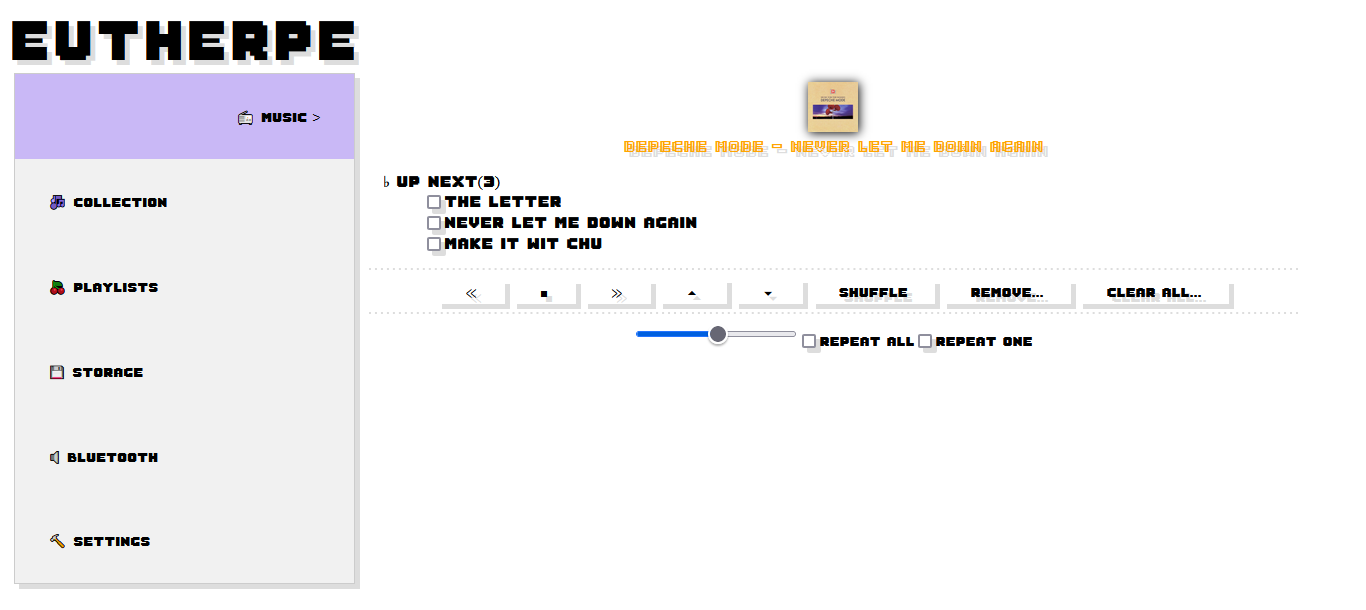
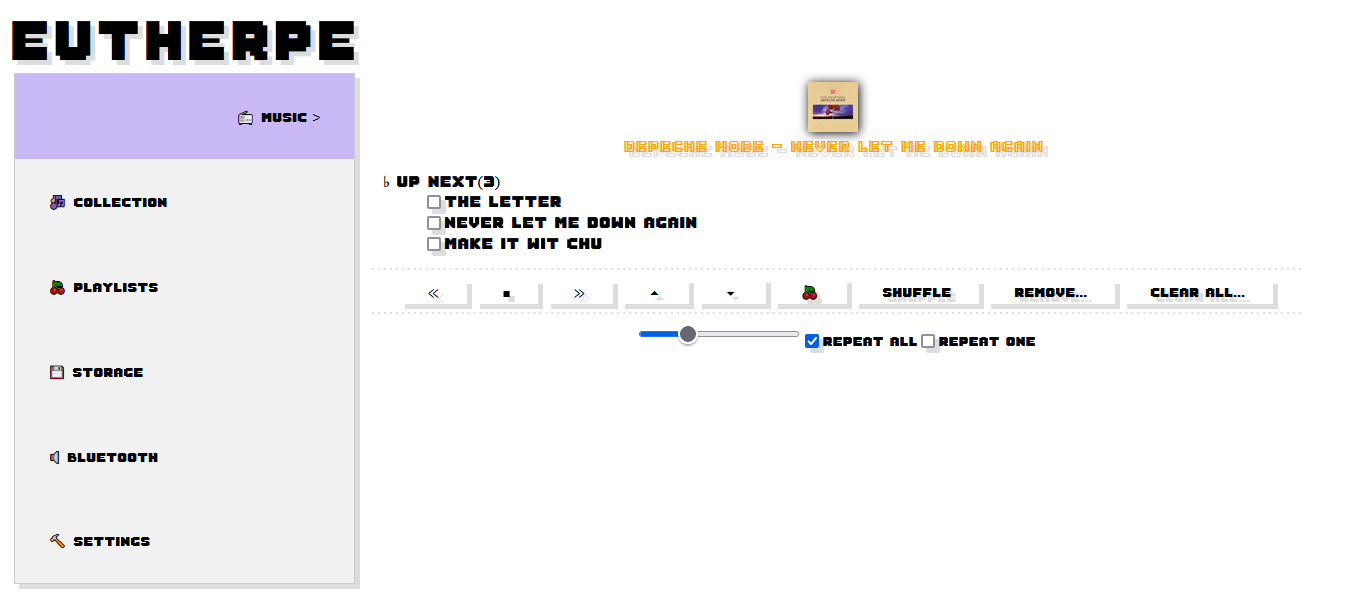
Update user's manual

Changed region(s): [[0.3382, 0.4672, 0.9531, 0.5918], [0.2767, 0.4984, 0.3382, 0.5295]]

diff --git a/doc/MANUAL-PT.md b/doc/MANUAL-PT.md
@@ -86,8 +86,8 @@ As principais características de `Eutherpe` são:
 ### Ãhm?!
 
 > [!IMPORTANT]
-> Se você não é do bonde dos malucos (leia-se gente que programa computadores), talvez seja legal
-> entender o que cargas d'água significa `bootstrapping`.
+> Se você não é da guange voadora dos malucos (leia-se gente que programa computadores), talvez
+> seja legal entender o que cargas d'água significa `bootstrapping`.
 
 Bem, isso é um termo que utilizamos para indicar que vamos provisionar todo o necessário para
 começar de fato a brincadeira. Seria um escalar sem corda colocando os grampos, para que
@@ -120,7 +120,7 @@ desperdício pode impactar na audição das suas amadas músicas.
 
 O `Debian 12` foi o meu sistema de escolha para desenvolver `Eutherpe`, tentei o `12` completo mas
 ficou bem ruim e estava utilizando um sistema com `Gnome` e todas aquelas tranqueiras *- que para o
-objetivo do `Eutherpe` são essencialmente inúteis*.
+objetivo de `Eutherpe` são essencialmente inúteis*.
 
 Você deve estar pensando: *"- Poxa fazer esse tal 'boostrapping' deve ser difícil bagarai..."*.
 Relaxa, não é!
@@ -258,7 +258,7 @@ o que quero tocar?*
 
 Nessa tela você tem todo acesso às músicas que `Eutherpe` conseguiu escanear de seu dispositivo
 de armazenamento. Entenda essa tela como a sua *estante*, onde todos seus álbuns seguem organizados.
-Note, organizados. E isso mesmo se você for uma criatura desorganizada! :wink:
+Note: organizados. E isso mesmo se você for uma criatura desorganizada! :wink:
 
 Dá uma conferida na **Figura 4** no `layout` dessa tela. Note que aqui eu também lancei mão daquela
 convenção pirada *sustenido/bemol*...
@@ -288,6 +288,10 @@ Na parte inferior da tela você vai notar que existem botões bem autoexplicativ
 A **Figura 5** exibe a tela que é apresentada ao clicar em `ADD TO PLAYLIST...`, você precisa
 fornecer o nome da `playlist` a qual deseja adicionar a seleção e clicar em `ADD`. Se quiser
 desistir da ideia, apenas clique em `BACK` que está tudo certo `Eutherpe` não brigará com você...
+
+> [!TIP]
+> Na tela `Music` existe um botão com uma cereja e lá você usa para adicionar toda a lista de
+> reprodução ou músicas presentes nela a uma `playlist`. A dinâmica é a mesma.
 
 ![Screenshot add to playlist](figures/eus-pt-br-collection-add-to-playlist.png)
 **Figura 5**: Gosta de criar listas de músicas?
@@ -339,6 +343,7 @@ As funções oferecidas por essa tela são:
 - `REPRODUCE` (você colocará para tocar a `playlist` selecionada).
 - `REPRODUCE SELECTION` (você colocará para tocar as músicas específicas que escolheu a partir da
    listagem geral de uma `playlist`).
+- `BACKUP...` (você copiará as playlists para o dispositivo de armazenamento selecionado).
 
 Pronto! Você já se formou na escola de `DJs Eutherpe`, congrats!
 
@@ -347,7 +352,7 @@ Pronto! Você já se formou na escola de `DJs Eutherpe`, congrats!
 ## A tela Storage
 
 A tela `Storage` é onde você sinaliza à `Eutherpe` a partir de onde tentar ler suas músicas.
-A **Figura 11** ilustra o que você encontra nessa tela. A tela oferece três operações:
+A **Figura 11** ilustra o que você encontra nessa tela. A tela oferece cinco operações:
 
 - `LIST` (todos os dispositivos `USB` encontrados são listados, se você plugou um USB é necessário
 clicar nesse botão para ter acesso ao seu novo dispositivo).
@@ -356,6 +361,8 @@ uso).
 - `SCAN` (o dispositivo é escaneado e a coleção extraída e organizada é listada na tela
 `Collection`, no primeiro escaneamento o processo pode demorar um pouco mais, isso é por conta de
 como o dispositivos de armazenamento `USB` funcionam no `Linux`).
+- `CONVERT` (todas as músicas em `MP4` ou `M4A` serão convertidas para `MP3`, isso é necessário para tocá-las).
+- `RESTORE PLAYLISTS...` (restaura uma cópia prévia das playlists a partir do dispositivo de armazenamento).
 
 ![A tela storage](figures/eus-pt-br-storage-screen.png)
 **Figure 11**: A tela `Storage`.

diff --git a/doc/MANUAL-EN.md b/doc/MANUAL-EN.md
@@ -284,6 +284,10 @@ The **Figure 5** depicts the screen presented when you click `ADD TO PLAYLIST...
 provide the `playlist` name that you want to add to. If you gave up adding anything, just click
 `BACK`, `Eutherpe` is easy going.
 
+> [!TIP]
+> At the `Music` screen exists a "cherry button" that you can use to add the entire up next
+> or some songs from it to a `playlist`. It follows the same dynamics.
+
 ![Add to playlist](figures/eus-pt-br-collection-add-to-playlist.png)
 **Figure 5**: Do you like creating music lists?
 
@@ -335,6 +339,7 @@ The functions offered by this screen are:
 - `REMOVE SONGS...` (you select the song(s) you want to remove).
 - `REPRODUCE` (you will play the selected `playlist`).
 - `REPRODUCE SELECTION` (you will play only the specific songs selected from a playlist).
+- `BACKUP...` (you will copy the playlists to the selected storage device).
 
 Done! You have just graduated at the `Eutherpe DJs` school, congrats!
 
@@ -344,7 +349,7 @@ Done! You have just graduated at the `Eutherpe DJs` school, congrats!
 
 The `Storage` screen is where you tell to `Eutherpe` the source of your songs.
 
-The **Figure 11** depicts what you will get on this screen. This screen offers three operations:
+The **Figure 11** depicts what you will get on this screen. This screen offers five operations:
 
 - `LIST` (all `USB` devices found are listed, if you have just plugged a USB stick, it is necessary
 to click on this button to access you new device).
@@ -352,6 +357,8 @@ to click on this button to access you new device).
 - `SCAN` (the selected device is scanned and the collection is extracted, organized and shown at
 the Collection screen, the first scanning tends to take longer, this is because the way of
 `USB` devices work on `Linux`).
+- `CONVERT` (all songs encoded as `MP4` or `M4A` will be converted into `MP3`, this is necessary to play those songs).
+- `RESTORE PLAYLISTS...` (restores a previous playlists copy from the storage device).
 
 ![Storage screen](figures/eus-pt-br-storage-screen.png)
 **Figure 11**: The `Storage` screen.
